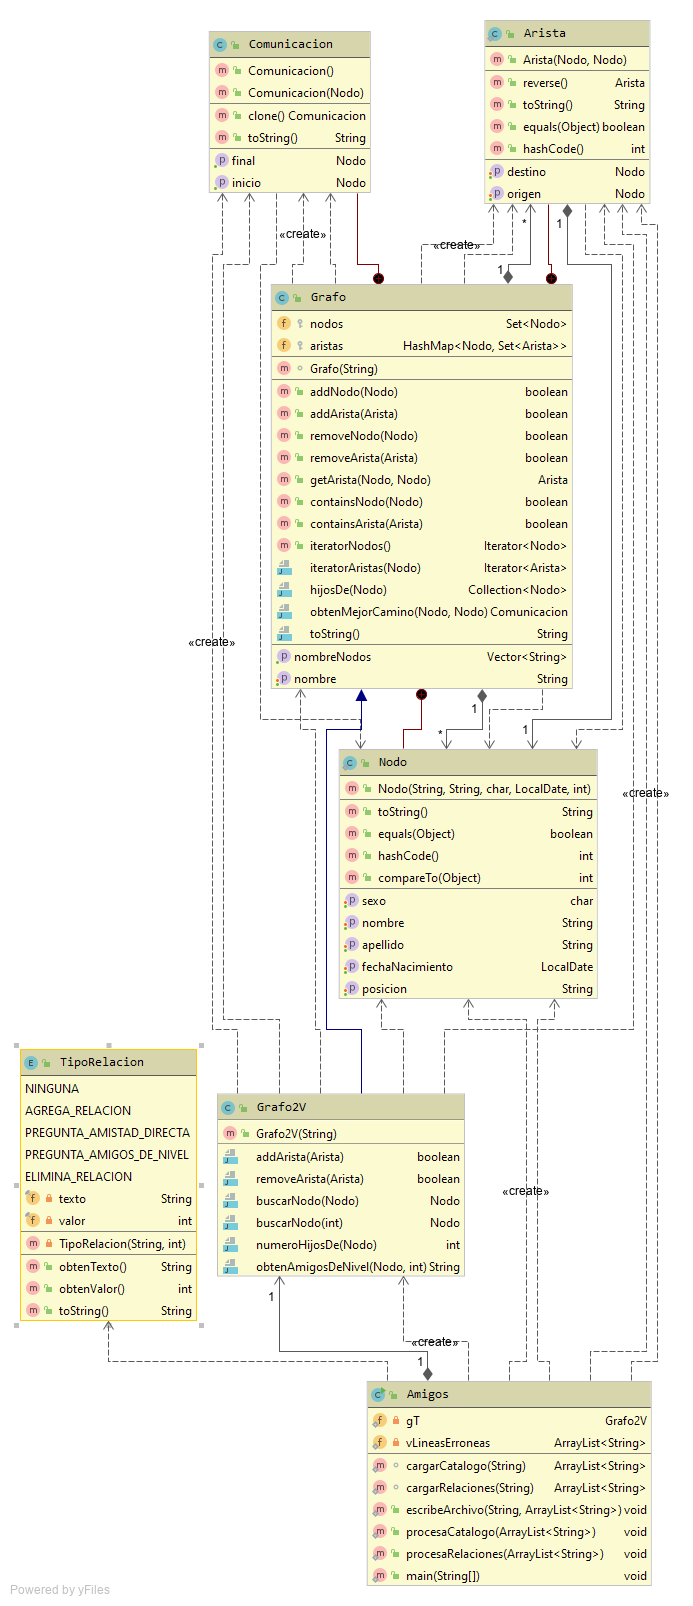
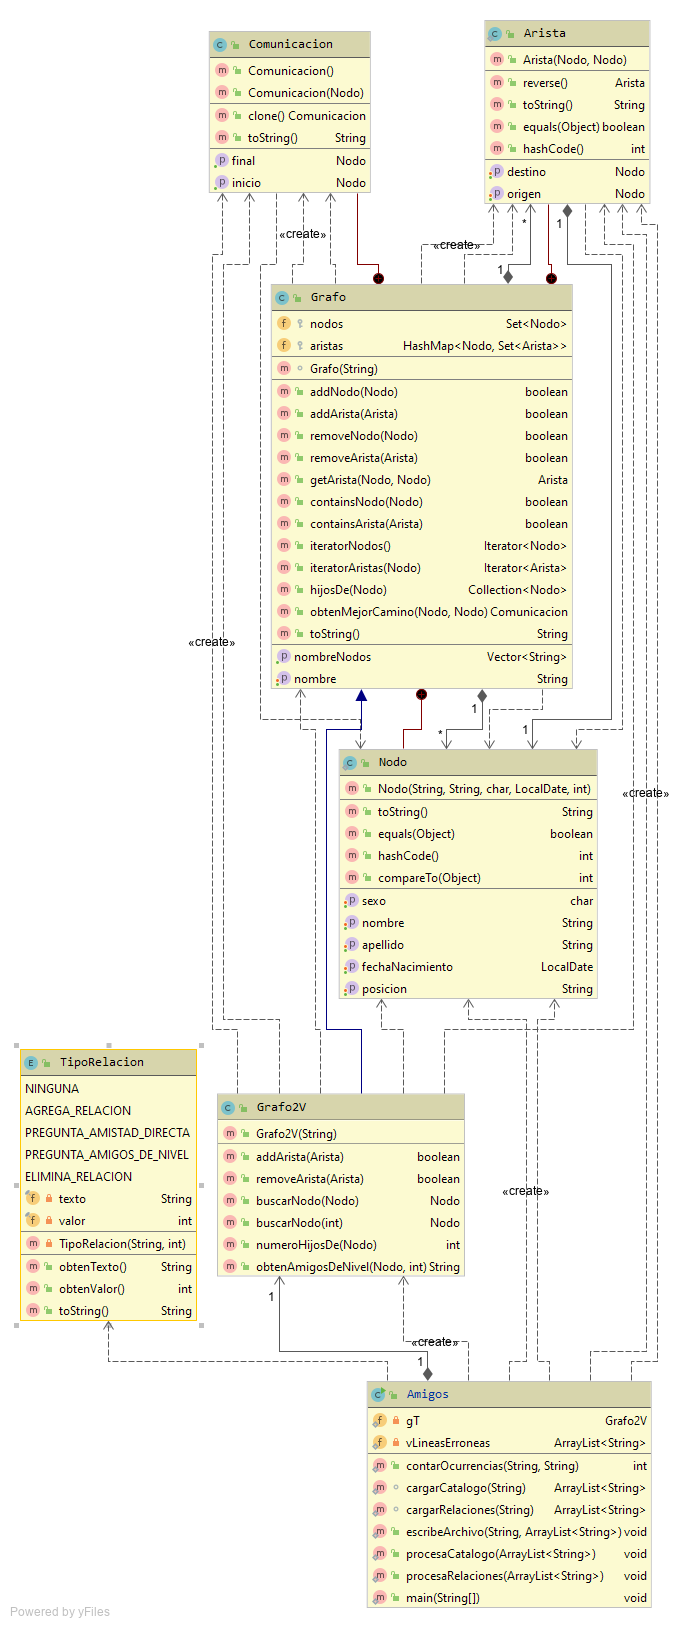
Actualización de comentarios

diff --git a/src/pAmigos/Amigos.java b/src/pAmigos/Amigos.java
@@ -22,6 +22,23 @@ public class Amigos {
     private static ArrayList<String> vLineasErroneas = new ArrayList<String>();
 
     /*
+     * Método que cuenta las ocurrencias de una cadena dentro de otra cadena
+     * @Param buscar Recibe como parámetro la cadena a buscar.
+     * @Param texto Recibe como parámetro el texto donde buscar.
+     * @Param regresa el número de ocurrencias de la cadena indicada.
+     */
+    public static int contarOcurrencias(String buscar, String texto) {
+        Pattern pattern = Pattern.compile(buscar);
+        Matcher matcher = pattern.matcher(texto);
+
+        int ocurrencias = 0;
+        while (matcher.find()) {
+            ocurrencias++;
+        }
+        return ocurrencias;
+    }
+
+    /*
      * Método que lee un archivo de texto que contiene los datos de diferentes personas
      * @Param archivo Recibe como parámetro la ruta al archivo.
      * @Param return regresa un ArrayList conteniendo las líneas válidas
@@ -77,7 +94,7 @@ public class Amigos {
             cadena = cadena.strip().replaceAll("[ ]{2,}", " ");
             cadenaOriginal = cadena;
             cadena = cadena.toLowerCase();
-            if ((Pattern.matches(regexValidarAmigoPosPos,cadena)) || (Pattern.matches(regexValidarAmigoPosDatos,cadena)) || (Pattern.matches(regexValidarAmigoDatosPos,cadena))  || (Pattern.matches(regexValidarAmigoDatosDatos,cadena)) || (Pattern.matches(regexValidarAmigoPosNivel,cadena)) || (Pattern.matches(regexValidarAmigoDatosNivel,cadena))) {
+            if ((contarOcurrencias("amigo",cadena) <= 1) && ((Pattern.matches(regexValidarAmigoPosPos,cadena)) || (Pattern.matches(regexValidarAmigoPosDatos,cadena)) || (Pattern.matches(regexValidarAmigoDatosPos,cadena))  || (Pattern.matches(regexValidarAmigoDatosDatos,cadena)) || (Pattern.matches(regexValidarAmigoPosNivel,cadena)) || (Pattern.matches(regexValidarAmigoDatosNivel,cadena)))) {
                 vLineas.add(cadenaOriginal);
             } else {
                 vLineasErroneas.add(cadenaOriginal);
